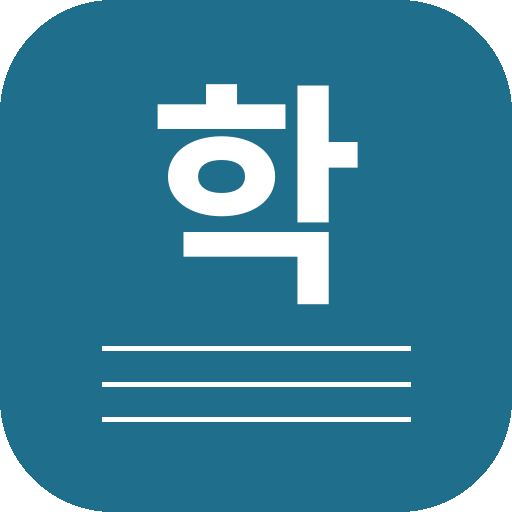
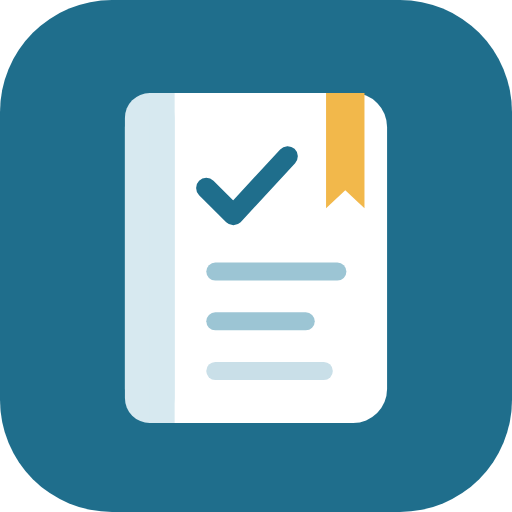
Add files via upload

Changed region(s): [[0.1875, 0.1562, 0.8125, 0.8438]]

diff --git a/privacy.html b/privacy.html
@@ -1,0 +1,58 @@
+<!DOCTYPE html>
+<html lang="ko">
+<head>
+<meta charset="utf-8">
+<meta name="viewport" content="width=device-width, initial-scale=1">
+<title>학급일지 개인정보처리방침</title>
+<link rel="icon" href="icon-192.png">
+<style>
+  body{margin:0;background:#F5F7F9;color:#18202B;font-family:"Pretendard","Noto Sans KR","Apple SD Gothic Neo","Malgun Gothic",sans-serif;line-height:1.7}
+  main{max-width:720px;margin:0 auto;padding:40px 22px 60px}
+  header{display:flex;align-items:center;gap:12px;margin-bottom:8px}
+  header img{width:44px;height:44px;border-radius:11px}
+  h1{font-size:24px;margin:0}
+  h2{font-size:17px;margin:28px 0 6px}
+  p,li{font-size:15px}
+  .muted{color:#5B6878;font-size:14px}
+  .card{background:#fff;border:1px solid #E3E8ED;border-radius:14px;padding:22px 24px;margin-top:18px}
+  a{color:#1F6E8C}
+</style>
+</head>
+<body>
+<main>
+  <header><img src="icon-192.png" alt=""><h1>학급일지 개인정보처리방침</h1></header>
+  <p class="muted">시행일: 2026년 11월 13일</p>
+  <div class="card">
+    <p>학급일지는 선생님이 학급 운영 기록(출결, 학생 기록, 시간표, 업무 등)을 적는 웹앱입니다. 학급일지는 별도의 서버에 정보를 모으지 않습니다.</p>
+
+    <h2>1. 저장되는 정보와 저장 위치</h2>
+    <ul>
+      <li>선생님이 입력한 기록은 <b>선생님이 쓰는 브라우저 안</b>에만 저장됩니다.</li>
+      <li>선생님이 '구글 드라이브 자동 백업'을 켜면, 같은 기록이 <b>선생님 본인의 구글 드라이브</b> 안 '학급일지 자동백업 (웹앱)' 폴더에 파일로 저장됩니다.</li>
+      <li>학급일지 제작자를 포함해 다른 누구도 이 기록을 볼 수 없습니다.</li>
+    </ul>
+
+    <h2>2. 구글 계정 정보의 사용</h2>
+    <ul>
+      <li>학급일지는 구글 로그인 때 <b>drive.file</b> 권한만 요청합니다. 이 권한으로는 학급일지가 직접 만든 파일만 만들고 읽을 수 있고, 드라이브의 다른 파일은 볼 수 없습니다.</li>
+      <li>구글에서 받은 정보는 백업 파일을 저장하고 불러오는 데에만 쓰며, 다른 곳으로 보내거나 광고에 쓰거나 사람이 읽지 않습니다.</li>
+      <li>학급일지가 구글 API로 받은 정보를 쓰는 방식은 <a href="https://developers.google.com/terms/api-services-user-data-policy" target="_blank" rel="noopener">Google API 서비스 사용자 데이터 정책</a>(제한적 사용 요건 포함)을 따릅니다.</li>
+    </ul>
+
+    <h2>3. 보관과 삭제</h2>
+    <ul>
+      <li>브라우저의 기록은 브라우저 저장 데이터를 지우면 삭제됩니다.</li>
+      <li>드라이브의 백업은 선생님이 드라이브에서 '학급일지 자동백업 (웹앱)' 폴더를 지우면 삭제됩니다.</li>
+      <li>학급일지의 드라이브 접근 권한은 <a href="https://myaccount.google.com/permissions" target="_blank" rel="noopener">구글 계정 → 서드 파티 앱 및 서비스</a>에서 언제든 해제할 수 있습니다.</li>
+    </ul>
+
+    <h2>4. 제3자 제공</h2>
+    <p>학급일지는 어떤 정보도 제3자에게 제공하지 않습니다.</p>
+
+    <h2>5. 선생님께 드리는 당부</h2>
+    <p>학급일지에는 학생 개인정보가 들어갈 수 있습니다. 소속 학교의 개인정보 처리 지침에 맞게 사용해 주시고, 여러 사람이 쓰는 공용 컴퓨터에서는 사용하지 마세요.</p>
+  </div>
+  <p class="muted" style="margin-top:20px"><a href="./">← 학급일지로 돌아가기</a></p>
+</main>
+</body>
+</html>

diff --git a/sw.js b/sw.js
@@ -1,7 +1,7 @@
 // 학급일지 서비스 워커: 앱 화면을 저장해 두어 인터넷이 잠깐 끊겨도 열리게 한다.
 // 앱 파일은 항상 새 버전을 먼저 받아 오고(네트워크 우선), 안 되면 저장해 둔 것을 쓴다.
-const CACHE = "classbook-v1";
-const SHELL = ["./", "index.html", "config.js", "manifest.webmanifest", "icon-192.png", "icon-512.png"];
+const CACHE = "classbook-v2";
+const SHELL = ["./", "index.html", "config.js", "manifest.webmanifest", "icon-192.png", "icon-512.png", "apple-touch-icon.png", "privacy.html"];
 self.addEventListener("install", e => { e.waitUntil(caches.open(CACHE).then(c => c.addAll(SHELL)).then(() => self.skipWaiting())); });
 self.addEventListener("activate", e => { e.waitUntil(caches.keys().then(ks => Promise.all(ks.filter(k => k !== CACHE).map(k => caches.delete(k)))).then(() => self.clients.claim())); });
 self.addEventListener("fetch", e => {
